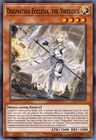
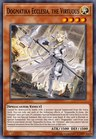
v0.4.8：额外怪兽区 + 盖牌识别
- SlotRecognizer.field: 增加额外怪兽区两格（中间排 0.495H，列 2/4），
  用 0°/180° 描述子比对判断归属（对手的卡在 MD 里是倒着的）
- 卡图库加 back.jpg（用真机卡背生成，官方卡背与 MD 渲染不匹配），
  里侧表示的卡直接认成「盖牌」
- 我方魔陷行中心按实测改为 0.857×屏高；场上格位搜索半径 ±24 → ±32px
- 真帧验证：对方 1 张 0.81、我方怪兽 2 张 0.96/0.93、盖牌 1 张 0.96
- 顺带把 60303688 的卡图按 96px 规格刷新

diff --git a/app/src/main/java/com/duelflow/app/SlotRecognizer.java b/app/src/main/java/com/duelflow/app/SlotRecognizer.java
@@ -38,7 +38,10 @@ public final class SlotRecognizer {
     public static final float[] FIELD_COLS = {0.3355f, 0.4185f, 0.5015f, 0.5844f, 0.6674f};
     public static final float FIELD_CARD_W = 0.0531f;
     public static final float ROW_OPP_ST = 0.28f, ROW_OPP_MON = 0.456f;
-    public static final float ROW_MY_MON = 0.645f, ROW_MY_ST = 0.82f;
+    public static final float ROW_MY_MON = 0.645f, ROW_MY_ST = 0.857f;
+    /** 额外怪兽区：中间那一排的两格；卡图朝我的算我的（用 0°/180° 比对判断）。 */
+    public static final float ROW_EMZ = 0.495f;
+    public static final float[] EMZ_COLS = {0.4185f, 0.5844f};
 
     public static final class Slot {
         public String name;        // null = 没认出来
@@ -121,9 +124,29 @@ public final class SlotRecognizer {
             for (int i = 0; i < FIELD_COLS.length; i++) {
                 float cx = FIELD_COLS[i] * W;
                 Slot s = scoreSlot(gray, size[0], size[1], desc, tpl,
-                        cx - cardW / 2f, cy - cardH / 2f, cardW, cardH, W, bandTop, 24);
+                        cx - cardW / 2f, cy - cardH / 2f, cardW, cardH, W, bandTop, 32, false);
                 s.side = (int) row[1] == 0 ? "opp" : "mine";
                 if (s.confident()) out.add(s);
+            }
+        }
+
+        /* 额外怪兽区：两格归双方共用，卡图朝我的算我的 */
+        float emzCy = ROW_EMZ * H - bandTop;
+        for (float col : EMZ_COLS) {
+            float cx = col * W;
+            Slot up = scoreSlot(gray, size[0], size[1], desc, tpl,
+                    cx - cardW / 2f, emzCy - cardH / 2f, cardW, cardH, W, bandTop, 32, false);
+            Slot down = scoreSlot(gray, size[0], size[1], desc, tpl,
+                    cx - cardW / 2f, emzCy - cardH / 2f, cardW, cardH, W, bandTop, 32, true);
+            Slot pick = up;
+            String side = "mine";
+            if (down.score > up.score) {
+                pick = down;
+                side = "opp";
+            }
+            if (pick.confident()) {
+                pick.side = side;
+                out.add(pick);
             }
         }
         return out;
@@ -145,7 +168,7 @@ public final class SlotRecognizer {
         float firstX = (float) (W / 2.0 - fanW / 2.0);
         List<Slot> out = new ArrayList<>(n);
         for (int i = 0; i < n; i++) {
-            Slot s = scoreSlot(gray, gw, gh, desc, tpl, firstX + i * pitch, top, cardW, cardH, W, bandTop, 16);
+            Slot s = scoreSlot(gray, gw, gh, desc, tpl, firstX + i * pitch, top, cardW, cardH, W, bandTop, 16, false);
             s.side = "hand";
             out.add(s);
         }
@@ -154,7 +177,8 @@ public final class SlotRecognizer {
 
     private static Slot scoreSlot(float[] gray, int gw, int gh, float[][] desc,
                                   List<CardMatcher.Template> tpl, float x, float top,
-                                  float cardW, float cardH, int W, int bandTop, int radius) {
+                                  float cardW, float cardH, int W, int bandTop, int radius,
+                                  boolean flip) {
         float[] win = new float[DESC_W * DESC_H];
         float[] best = new float[]{-2, -2, -1, x, top, cardW};
 
@@ -162,7 +186,7 @@ public final class SlotRecognizer {
         for (int dx = -radius; dx <= radius; dx += radius / 2) {
             for (int dy = -radius; dy <= radius; dy += radius / 2) {
                 for (float sc = 0.97f; sc <= 1.031f; sc += 0.03f) {
-                    tryBox(gray, gw, gh, desc, x + dx, top + dy, cardW * sc, cardH * sc, win, best);
+                    tryBox(gray, gw, gh, desc, x + dx, top + dy, cardW * sc, cardH * sc, win, best, flip);
                 }
             }
         }
@@ -172,7 +196,7 @@ public final class SlotRecognizer {
             for (int dx = -(radius / 2); dx <= radius / 2; dx += 3) {
                 for (int dy = -(radius / 2); dy <= radius / 2; dy += 3) {
                     for (float sc = 0.985f; sc <= 1.016f; sc += 0.015f) {
-                        tryBox(gray, gw, gh, desc, bx + dx, by + dy, bw * sc, bw * sc * CARD_ASPECT, win, best);
+                        tryBox(gray, gw, gh, desc, bx + dx, by + dy, bw * sc, bw * sc * CARD_ASPECT, win, best, flip);
                     }
                 }
             }
@@ -194,11 +218,12 @@ public final class SlotRecognizer {
     /** 算一个候选框的前两名分数，写回 best = {top1, top2, idx, x, top, cardW}。 */
     private static void tryBox(float[] gray, int gw, int gh, float[][] desc,
                                float cx0, float cy0, float cardW, float cardH,
-                               float[] win, float[] best) {
+                               float[] win, float[] best, boolean flip) {
         float x0 = cx0 + ART_X0 * cardW, x1 = cx0 + ART_X1 * cardW;
         float y0 = cy0 + ART_Y0 * cardH, y1 = cy0 + ART_Y1 * cardH;
         if (x0 < 0 || y0 < 0 || x1 > gw - 1 || y1 > gh - 1) return;
         sampleGray(gray, gw, gh, x0, y0, x1, y1, win);
+        if (flip) reverse180(win);
         normalize(win);
         float s1 = -2, s2 = -2;
         int i1 = -1;
@@ -262,6 +287,17 @@ public final class SlotRecognizer {
                 out[oy * DESC_W + ox] = sum / ((iy1 - iy0) * (ix1 - ix0));
             }
         }
+    }
+
+    /** 描述子旋转 180°（对手的卡在 MD 里是倒着的）。 */
+    private static void reverse180(float[] v) {
+        float[] t = new float[v.length];
+        for (int y = 0; y < DESC_H; y++) {
+            for (int x = 0; x < DESC_W; x++) {
+                t[y * DESC_W + x] = v[(DESC_H - 1 - y) * DESC_W + (DESC_W - 1 - x)];
+            }
+        }
+        System.arraycopy(t, 0, v, 0, v.length);
     }
 
     private static void normalize(float[] v) {

diff --git a/README.md b/README.md
@@ -12,6 +12,7 @@
   - **分带放大 OCR**：整屏切成上下两条带、放大约 1.5 倍再识别，卡面小字更容易读；
   - 两路结果合并成「对方场地 / 我方场地 / 手牌」，认错的点一下就能删，认漏的可以手动补。
   - 状态行会显示识别走到哪一步（截屏 → 认卡 → 文字），20 秒没结果会自己报超时，不会一直卡着不动。
+  - 0.4.8：加**额外怪兽区**两格（中间那排），用 0°/180° 描述子比对判断归属（MD 里对手的卡是倒着的，卡图朝我的算我的）；加**盖牌**识别——库里的 `back.jpg` 用真机卡背生成（官方卡背跟 MD 渲染对不上，只有 0.48；真机卡背 0.96~0.97），匹配上就直接显示「盖牌」。魔陷行中心按实测改到 0.857×屏高，场上格位搜索半径放宽到 ±32px。
   - 0.4.7：场上也改成按版面卡位识别。真机帧实测：列中心 0.3355/0.4185/0.5015/0.5844/0.6674×屏宽，行中心「对方魔陷 0.28 / 对方怪兽 0.456 / 我方怪兽 0.645 / 我方魔陷 0.82」×屏高，场上卡约 0.0531×屏宽；共 20 个格子（双方各 5 怪兽 + 5 魔陷）。归属直接由格子决定（不再按 y 猜），盖牌在魔陷区就归到我方场地。真帧：对方 1 张、我方 2 张认对（0.80~0.96），单帧 380ms。
   - 0.4.6：手牌改成**按版面卡位识别**。真机帧实测：MD 手牌永远是屏幕底部居中一排，卡宽 0.0605×屏宽、间距 0.0557×屏宽、顶边 0.855×屏高；按这个几何定位每个卡位，再在卡位附近做 ±16px/±3% 的对齐搜索，卡图区仍取 0.085~0.915 × 0.14~0.65。真帧上 5 张手牌全部认对（0.75~0.96，与第二名差 0.25~0.55，132ms）。全屏搜索会把左右两侧的火焰/石纹当成卡（一次 81 个假命中，0.55~0.70），所以场上只在中间 0.28~0.74 × 0.05~0.80 区域搜，且只报认出名字的。
   - 0.4.5：匹配尺度放宽到屏宽 4.5%~21.5%（原来只搜 9%~21%，手牌只有屏宽 5.5% 左右，根本不在搜索范围内），工作分辨率从 540 提到 1080；合成场景召回 86%→97%。浮窗加「存图」，把 App 实际截到的那一帧存到「下载/DSH-Go/duelflow-shots/」，用来离线调阈值。
